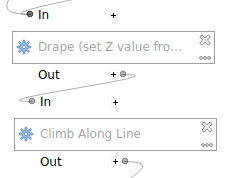
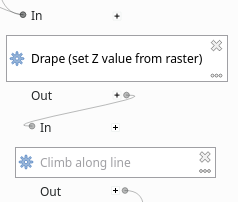
Update contextual menu of an algorithm in the modeler
adding "View log" and "View output layers" option.
Also update screenshots

Fixes #9036

diff --git a/docs/user_manual/processing/modeler.rst b/docs/user_manual/processing/modeler.rst
@@ -483,6 +483,8 @@ model comments. Comments are visible only in the modeler canvas and not
 in the final algorithm dialog; they can be hidden by deactivating
 :menuselection:`View --> Show Comments`.
 
+.. _running_model:
+
 Your model can be run in various ways:
 
 * You can run the whole model by clicking on |start| :sup:`Run Model...` from the toolbar
@@ -617,47 +619,58 @@ like the one shown next:
 
    Modeler Right Click
 
-Selecting the :guilabel:`Remove` option will cause the selected
-algorithm to be removed.
-An algorithm can be removed only if there are no other algorithms
-depending on it.
-That is, if no output from the algorithm is used in a different one as
-input.
+* Options for :ref:`running part of the model <running_model>` have been exposed earlier.
 
+* Selecting the :guilabel:`Remove` option will cause the selected algorithm to be removed.
+  An algorithm can be removed only if there are no other algorithms depending on it.
+  That is, if no output from the algorithm is used as input in a different one.
 
+* Selecting the :guilabel:`Edit...` option will show the parameter dialog
+  so you can change the inputs and parameter values.
+  Not all input elements available in the model will appear as available inputs.
+  Layers or values generated at a more advanced step in the workflow
+  defined by the model will not be available if they cause circular dependencies.
 
+  Select the new values and click on the :guilabel:`OK` button as usual.
+  The connections between the model elements will change in the modeler canvas accordingly.
 
-Selecting the :guilabel:`Edit...` option will show the parameter dialog
-of the algorithm, so you can change the inputs and parameter values.
-Not all input elements available in the model will appear as
-available inputs.
-Layers or values generated at a more advanced step in the workflow
-defined by the model will not be available if they cause circular
-dependencies.
+* The :guilabel:`Add comment...` allows you to add a comment to the algorithm
+  to better describe the behavior.
 
-Select the new values and click on the :guilabel:`OK` button as usual.
-The connections between the model elements will change in the modeler
-canvas accordingly.
+.. note:: Right-clicking an input parameter will also allow you to
+  :guilabel:`Remove`, :guilabel:`Edit..` and :guilabel:`Add comment...`
 
-The :guilabel:`Add comment...` allows you to add a comment to the algorithm to
-better describe the behavior.
+* A model can be run partially by deactivating some of its algorithms.
+  To do it, select the :guilabel:`Deactivate` option in the context menu
+  that appears when right-clicking on an algorithm element.
+  The selected algorithm, and all the ones in the model that depend on it
+  will be displayed in grey and will not be executed as part of the model.
 
-A model can be run partially by deactivating some of its algorithms.
-To do it, select the :guilabel:`Deactivate` option in the context menu
-that appears when right-clicking on an algorithm element.
-The selected algorithm, and all the ones in the model that depend on it
-will be displayed in grey and will not be executed as part of the model.
+  .. _figure_cannot_model_deactivate:
 
-.. _figure_cannot_model_deactivate:
+  .. figure:: img/deactivated.png
+     :align: center
 
-.. figure:: img/deactivated.png
-   :align: center
+     Model with a deactivated algorithm
 
-   Model With Deactivated Algorithms
+  When right-clicking on an algorithm that is not active, you will
+  see an :guilabel:`Activate` menu option that you can use to reactivate it.
 
-When right-clicking on an algorithm that is not active, you will
-see a :guilabel:`Activate` menu option that you can use to reactivate
-it.
+* When editing a model through the designer (and after having run that model),
+  right-clicking any child step in the model allows to select |showSelectedLayers| :guilabel:`View Output Layers`.
+  This will add the output layers from that step as new layers in the current QGIS project.
+
+  This action is available for all child algorithms in the model,
+  even if the model is not configured to use the outputs from those children as model outputs.
+  This is designed as a helpful debugging action. If a model fails (or gives unexpected results),
+  you can then trace through the model and view the outputs for suspected problematic steps.
+  It avoids the need to add temporary outputs to a model and re-run to test.
+
+  Additionally, this action is always available after running the model,
+  even if the model itself failed (e.g., because of a misconfigured step later in the model).
+
+* The :guilabel:`View Log` action helps you see the log for each child algorithm
+  after you've closed down the algorithm dialog.
 
 
 .. Substitutions definitions - AVOID EDITING PAST THIS LINE
